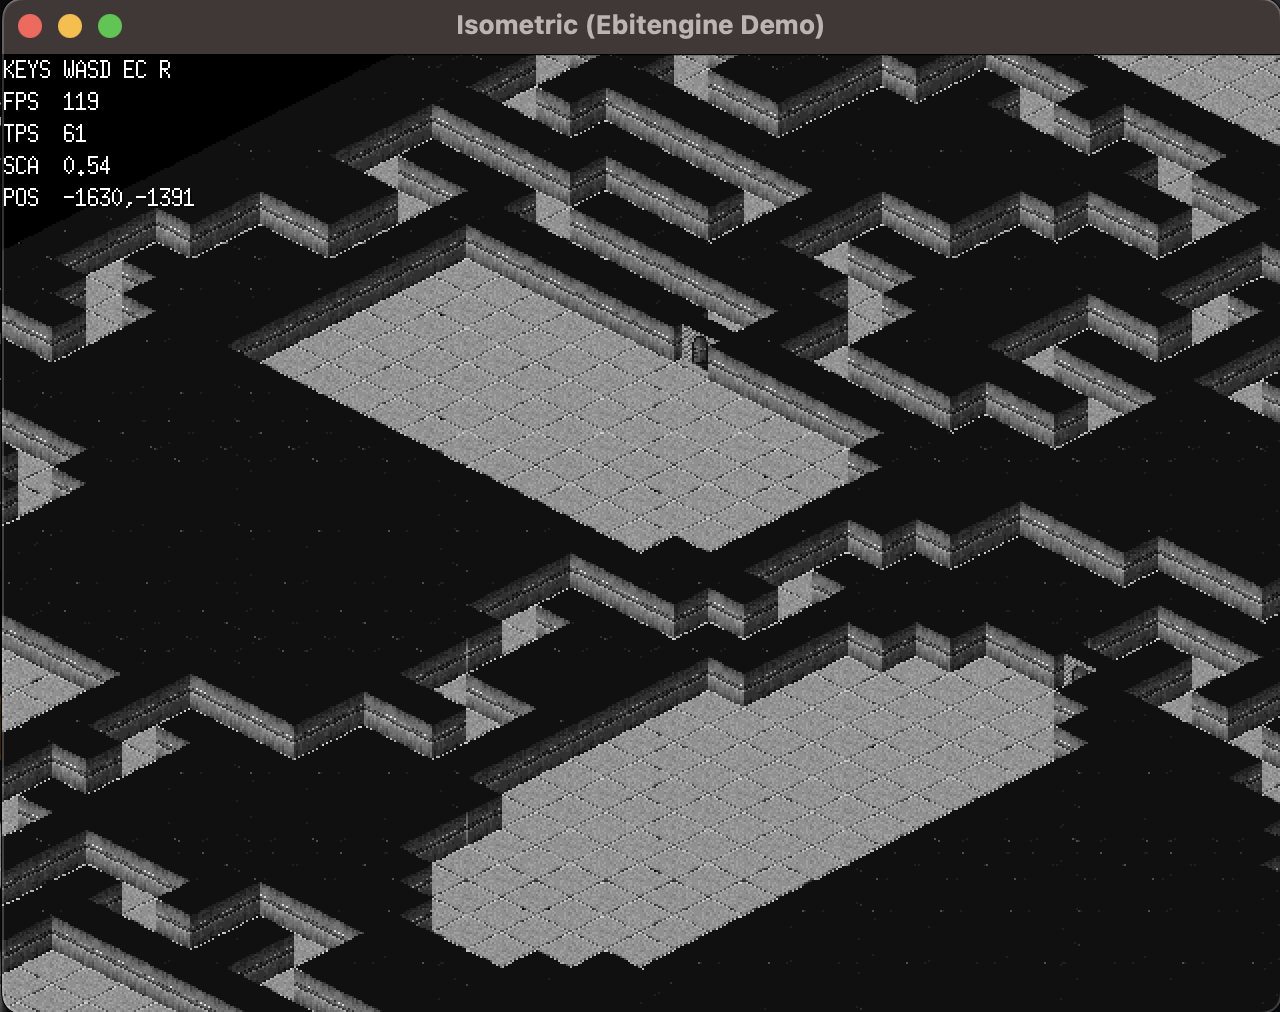
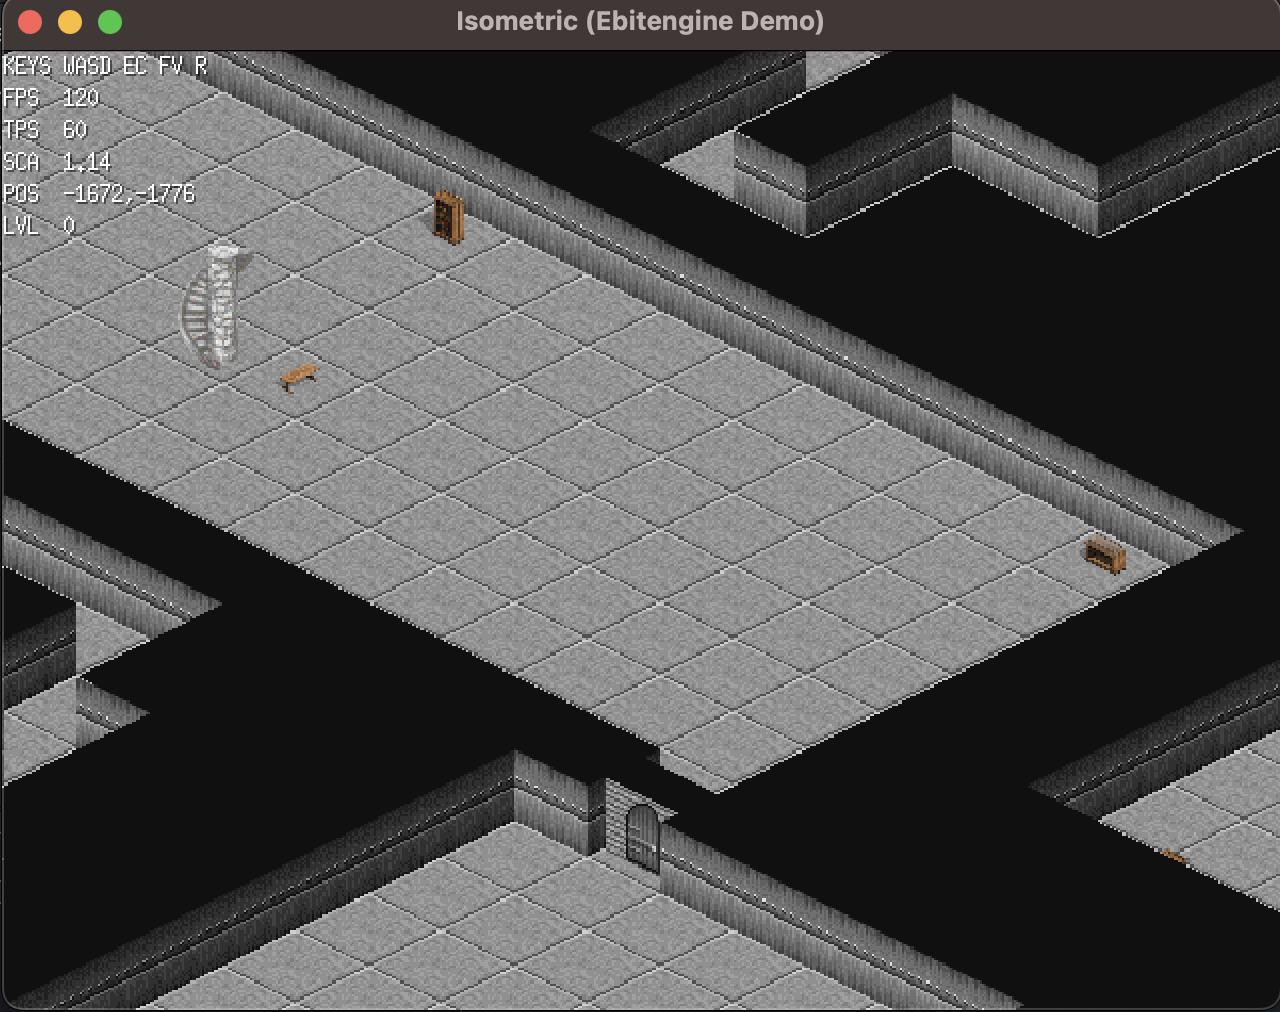
gameisometric: Add some furniture

diff --git a/gameisometric/spritesheet.go b/gameisometric/spritesheet.go
@@ -20,23 +20,63 @@ import (
 	_ "image/png"
 
 	"github.com/hajimehoshi/ebiten/v2"
+	"golang.org/x/image/draw"
 )
 
 var (
 	//go:embed tiles/64x64.png
 	Spritesheet_png []byte
+
+	//go:embed tiles/kenney/longTable_N.png
+	TableN_png []byte
+
+	//go:embed tiles/kenney/longTable_E.png
+	TableE_png []byte
+
+	//go:embed tiles/kenney/longTable_S.png
+	TableS_png []byte
+
+	//go:embed tiles/kenney/longTable_W.png
+	TableW_png []byte
+
+	//go:embed tiles/kenney/displayCase_N.png
+	DisplayCaseN_png []byte
+
+	//go:embed tiles/kenney/displayCase_E.png
+	DisplayCaseE_png []byte
+
+	//go:embed tiles/kenney/displayCase_S.png
+	DisplayCaseS_png []byte
+
+	//go:embed tiles/kenney/displayCase_W.png
+	DisplayCaseW_png []byte
+
+	//go:embed tiles/kenney/bookcaseBooks_N.png
+	BookcaseBooksN_png []byte
+
+	//go:embed tiles/kenney/bookcaseBooks_E.png
+	BookcaseBooksE_png []byte
+
+	//go:embed tiles/kenney/bookcaseBooks_S.png
+	BookcaseBooksS_png []byte
+
+	//go:embed tiles/kenney/bookcaseBooks_W.png
+	BookcaseBooksW_png []byte
 )
 
 // SpriteSheet represents a collection of sprite images.
 type SpriteSheet struct {
-	Floor      *ebiten.Image
-	Wall       *ebiten.Image
-	StairsUp   *ebiten.Image
-	StairsDown *ebiten.Image
-	DoorNS     *ebiten.Image
-	DoorEW     *ebiten.Image
-	DoorNSOpen *ebiten.Image
-	DoorEWOpen *ebiten.Image
+	Floor       *ebiten.Image
+	Wall        *ebiten.Image
+	StairsUp    *ebiten.Image
+	StairsDown  *ebiten.Image
+	DoorNS      *ebiten.Image
+	DoorEW      *ebiten.Image
+	DoorNSOpen  *ebiten.Image
+	DoorEWOpen  *ebiten.Image
+	Table       *Sprite
+	DisplayCase *Sprite
+	Bookcase    *Sprite
 }
 
 // https://opengameart.org/content/dungeon-crawl-32x32-tiles
@@ -62,7 +102,7 @@ func LoadSpriteSheet(tileSize int) (*SpriteSheet, error) {
 
 	// spriteAt returns a sprite at the provided coordinates.
 	spriteAt := func(x, y int) *ebiten.Image {
-		return sheet.SubImage(image.Rect(x*tileSize, (y+1)*tileSize, (x+1)*tileSize, y*tileSize)).(*ebiten.Image)
+		return sheet.SubImage(image.Rect(x*tileSize, y*tileSize, (x+1)*tileSize, (y+1)*tileSize)).(*ebiten.Image)
 	}
 
 	// Populate SpriteSheet.
@@ -76,5 +116,60 @@ func LoadSpriteSheet(tileSize int) (*SpriteSheet, error) {
 	s.DoorNSOpen = spriteAt(11, 4)
 	s.DoorEWOpen = spriteAt(12, 4)
 
+	s.Table = NewSprite(
+		ReadImage(TableN_png),
+		ReadImage(TableE_png),
+		ReadImage(TableS_png),
+		ReadImage(TableW_png),
+	)
+
+	s.DisplayCase = NewSprite(
+		ReadImage(DisplayCaseN_png),
+		ReadImage(DisplayCaseE_png),
+		ReadImage(DisplayCaseS_png),
+		ReadImage(DisplayCaseW_png),
+	)
+
+	s.Bookcase = NewSprite(
+		ReadImage(BookcaseBooksN_png),
+		ReadImage(BookcaseBooksE_png),
+		ReadImage(BookcaseBooksS_png),
+		ReadImage(BookcaseBooksW_png),
+	)
+
 	return s, nil
+}
+
+// ReadImage reads an image from a byte slice and downscales it to the tile size.
+func ReadImage(data []byte) *ebiten.Image {
+	src, _, _ := image.Decode(bytes.NewReader(data))
+
+	// NOTE that the tile is isometric.
+	tileSize := 64
+
+	// Ratio of the tile width to the tile height.
+	// ratio := float64(src.Bounds().Dx()) / float64(src.Bounds().Dy())
+
+	// Create a new image with the tile size.
+	img := image.NewRGBA(image.Rect(0, 0, tileSize, tileSize))
+
+	// Resize:
+	draw.NearestNeighbor.Scale(img, image.Rect(16+2, 0-8, tileSize-16+2, tileSize-8), src, src.Bounds(), draw.Over, nil)
+	// move the image to the center
+	// TODO: Crop it to 64x64:
+	ret := ebiten.NewImageFromImage(img)
+	return ret
+}
+
+type Sprite struct {
+	N, E, S, W *ebiten.Image
+}
+
+func NewSprite(n, e, s, w *ebiten.Image) *Sprite {
+	return &Sprite{
+		N: n,
+		E: e,
+		S: s,
+		W: w,
+	}
 }

diff --git a/gameisometric/level.go b/gameisometric/level.go
@@ -66,11 +66,34 @@ func (l *Level) LevelDown() {
 
 // LoadLevel loads the current level from the dungeon.
 func (l *Level) LoadLevel() {
+	// Seed the random number generator.
 	rng := rand.New(rand.NewSource(l.seed))
+
+	// Get the current level.
 	dung := l.dng.Levels[l.currentLevel]
 
+	// Update the level size.
+	l.width = dung.Width
+	l.height = dung.Height
+
+	isGetWallNeighbor := func(x, y int) Direction {
+		var dir Direction
+		if x > 0 && dung.Tiles[y][x-1].Material == gendungeon.MatWall {
+			dir |= DirectionWest
+		}
+		if x < l.width-1 && dung.Tiles[y][x+1].Material == gendungeon.MatWall {
+			dir |= DirectionEast
+		}
+		if y > 0 && dung.Tiles[y-1][x].Material == gendungeon.MatWall {
+			dir |= DirectionNorth
+		}
+		if y < l.height-1 && dung.Tiles[y+1][x].Material == gendungeon.MatWall {
+			dir |= DirectionSouth
+		}
+		return dir
+	}
+
 	// Generate a unique permutation each time.
-	// Fill each tile with one or more sprites randomly.
 	l.tiles = make([][]*Tile, l.height)
 	for y := 0; y < l.height; y++ {
 		l.tiles[y] = make([]*Tile, l.width)
@@ -104,11 +127,46 @@ func (l *Level) LoadLevel() {
 				}
 			default:
 				t.AddSprite(l.ss.Floor)
+				if rng.Intn(100) < 5 {
+					var sprite *Sprite
+					switch rng.Intn(3) {
+					case 0:
+						sprite = l.ss.Table
+					case 1:
+						sprite = l.ss.Bookcase
+					case 2:
+						sprite = l.ss.DisplayCase
+					}
+					// Check if any of the neighbors are walls.
+					switch isGetWallNeighbor(x, y) {
+					case DirectionNorth:
+						t.AddSprite(sprite.S)
+					case DirectionEast:
+						t.AddSprite(sprite.W)
+					case DirectionWest:
+						t.AddSprite(sprite.E)
+					case DirectionSouth:
+						t.AddSprite(sprite.N)
+					case DirectionNone:
+						t.AddSprite(l.ss.Table.E)
+					default:
+					}
+				}
 			}
 			l.tiles[y][x] = t
 		}
 	}
 }
+
+type Direction int
+
+const (
+	DirectionNone  Direction = 0
+	DirectionNorth Direction = 1 << iota
+	DirectionSouth
+	DirectionEast
+	DirectionWest
+)
 
 // NewLevel returns a new randomly generated Level.
 func NewLevel() (*Level, error) {

diff --git a/gameisometric/README.md b/gameisometric/README.md
@@ -12,6 +12,10 @@ You can find the original tileset at: http://rltiles.sf.net
 
 See: https://opengameart.org/content/dungeon-crawl-32x32-tiles
 
+Further, I am using Kenney's fantastic isometric tile set.
+
+See: https://www.kenney.nl/assets/isometric-miniature-library
+
 ## TODO
 
 - [X] Add basic isometric rendering
@@ -19,6 +23,7 @@ See: https://opengameart.org/content/dungeon-crawl-32x32-tiles
     - [X] Add multilevel dungeon generation
     - [X] Add stairs
     - [X] Add doors
+    - [X] Add furniture
     - [ ] Tidy up level handling
     - [ ] Add clutter generation
 - [ ] Add actual game
